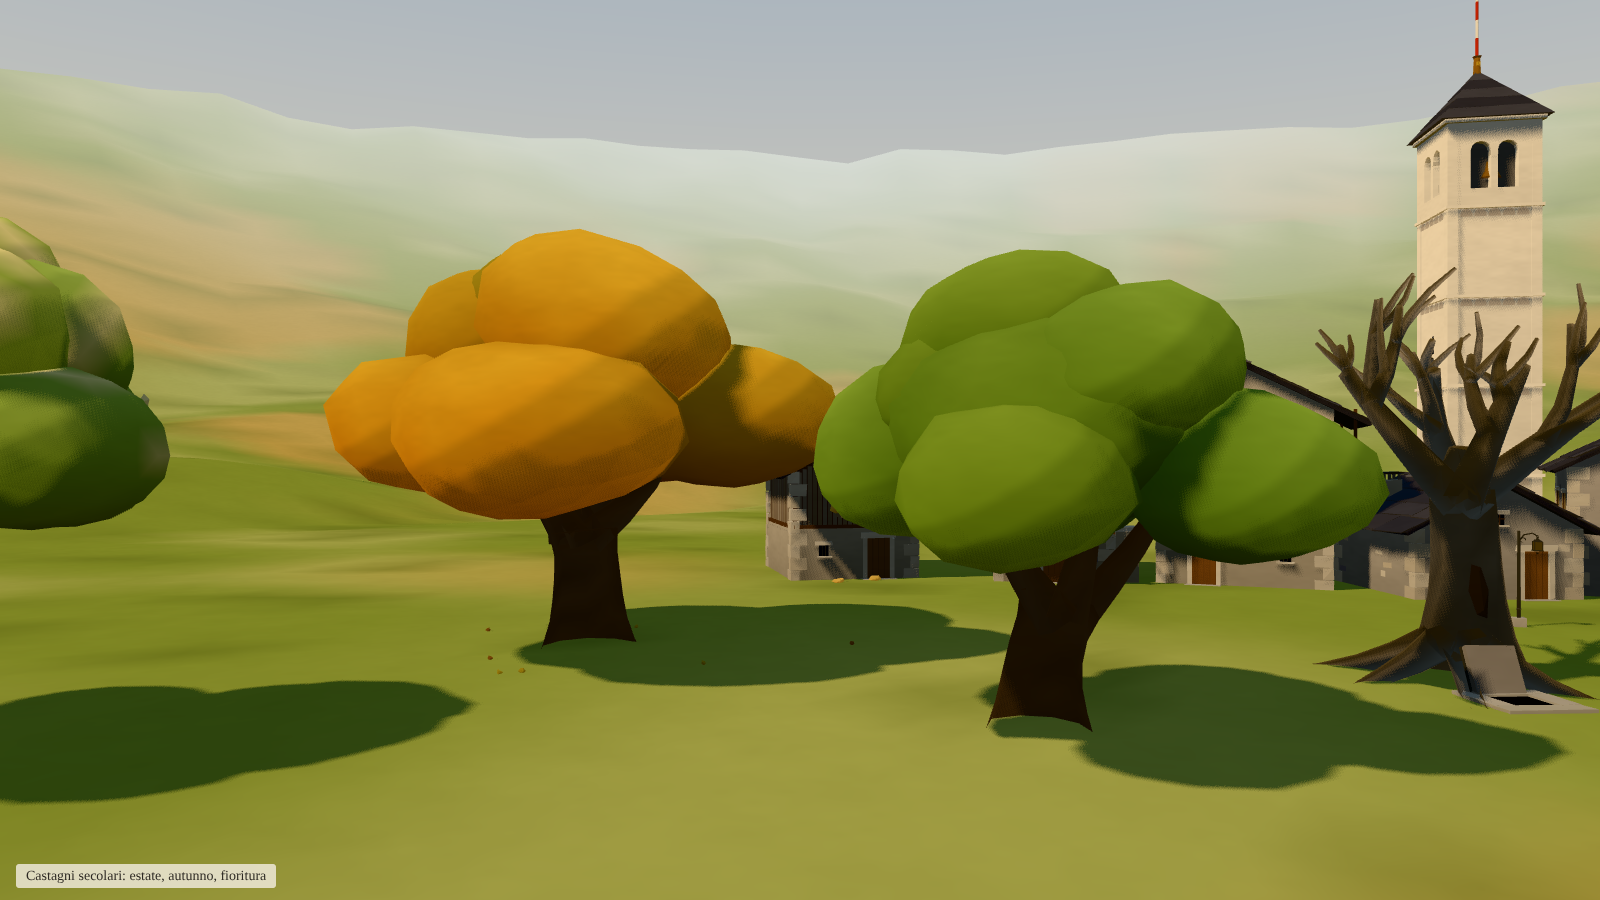
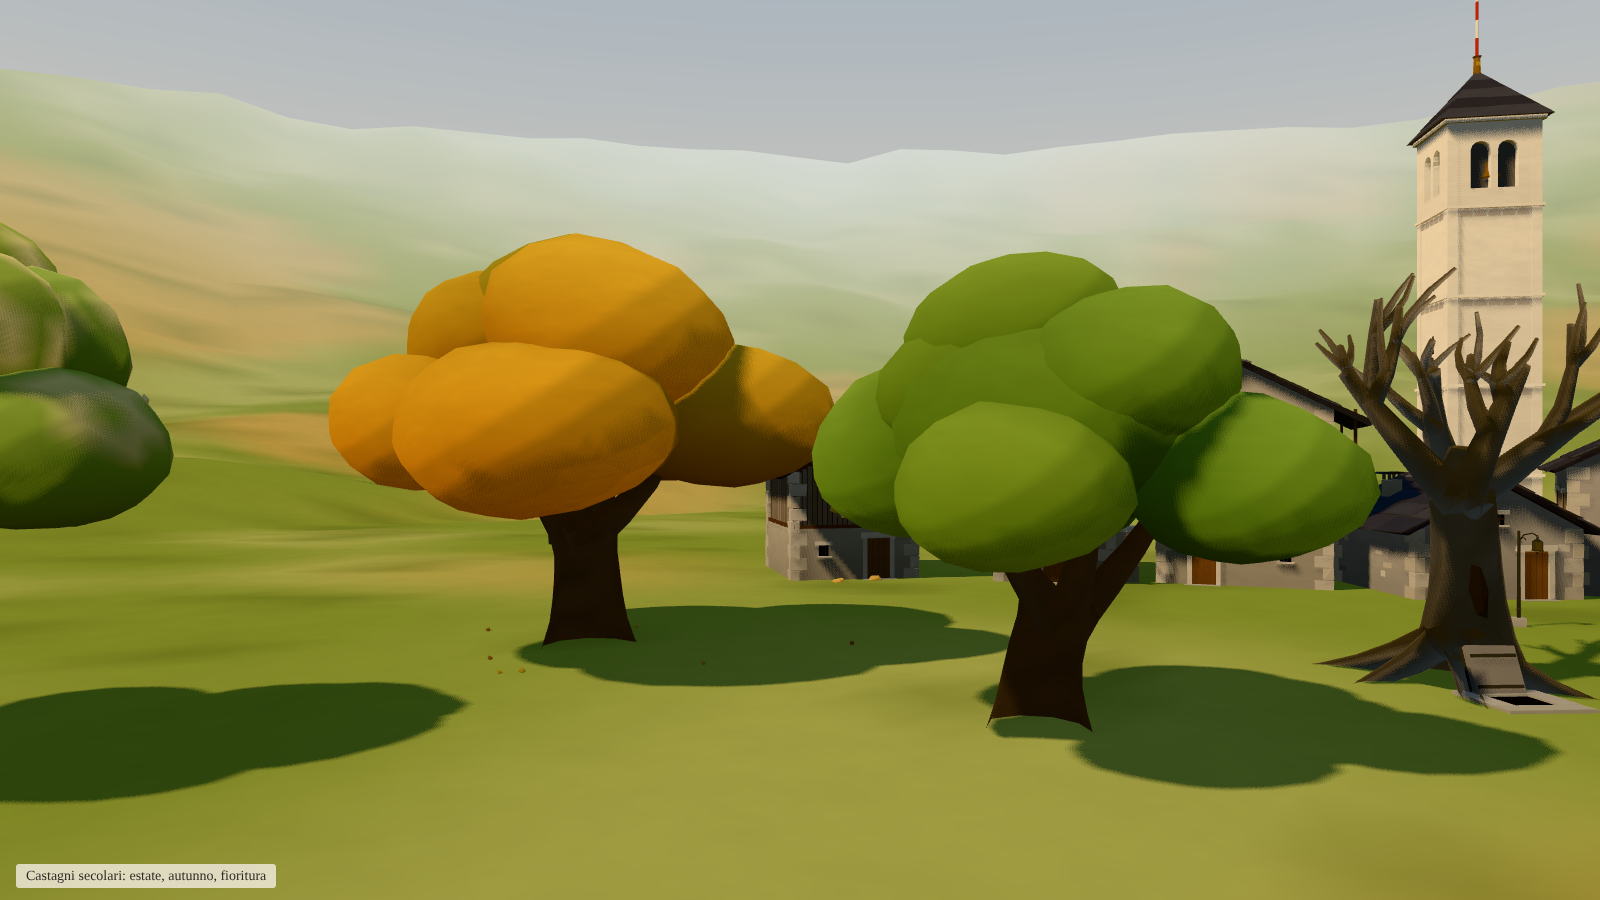
Cielo di Terra: istantanea del lavoro in corso
Claude-Session: https://claude.ai/code/session_016L3mhZfM8m5LnzdjzNNuFY

diff --git a/cielo-di-terra/moduli/oggetti/src/oggetti/castagno.ts b/cielo-di-terra/moduli/oggetti/src/oggetti/castagno.ts
@@ -159,7 +159,7 @@ export function creaCastagno(opz: OpzioniCastagno = {}): OggettoProcedurale {
       const dy = (p.y - cChioma.y) / (ry * 1.2);
       const dz = (p.z - cChioma.z) / rx;
       const esterno = THREE.MathUtils.smoothstep(Math.sqrt(dx * dx + dy * dy + dz * dz), 0.45, 1.05);
-      const t = THREE.MathUtils.clamp(n.y * 0.3 + 0.2 + altezza * 0.35 + esterno * 0.3 + (hashPosizione(p.x, p.y, p.z, seme) - 0.5) * 0.14, 0, 1);
+      const t = THREE.MathUtils.clamp(n.y * 0.3 + 0.2 + altezza * 0.35 + esterno * 0.3 + (hashPosizione(p.x, p.y, p.z, seme) - 0.5) * 0.05, 0, 1);
       if (t < 0.5) out.copy(cScuro).lerp(cMedio, t / 0.5);
       else out.copy(cMedio).lerp(cChiaro, (t - 0.5) / 0.5);
       out.multiplyScalar(0.72 + 0.28 * esterno);
@@ -168,7 +168,8 @@ export function creaCastagno(opz: OpzioniCastagno = {}): OggettoProcedurale {
       out.b *= 1 - tintaMassa;
       if (stagione === 'fioritura' && n.y > -0.1 && hashPosizione(p.x * 1.7, p.y * 1.7, p.z * 1.7, seme + 5) > 0.72) out.lerp(amenti, 0.75);
     };
-    const g = geoMassa(r, seme + i * 31, 0.2, det === 'alto' && r > rx * 0.38 ? 2 : 1, 0.84, 0.65);
+    const dettaglioMassa = det === 'alto' ? (r > rx * 0.42 ? 3 : 2) : 1;
+    const g = geoMassa(r, seme + i * 31, 0.16, dettaglioMassa, 0.84, 0.7);
     b.aggiungi(g, { matrice: mat(c, [0, rng.next() * 6, 0]), colore: fn });
   }
 
@@ -413,6 +414,9 @@ export function creaBotolaCripta(opz: OpzioniBotola = {}): OggettoProcedurale<St
     [0, lc / 2, lc, 0.08],
   ] as const) {
     bc.aggiungi(geoBoxC(w, 0.04, d), { matrice: mat([x, 0.17, z]), colore: PALETTE.ferro, gradiente: { basso: 1, alto: 1, y0: 0, y1: 1 }, piatto: true });
+  }
+  for (const z of [0.25, lc - 0.25]) {
+    bc.aggiungi(geoBoxC(lc - 0.1, 0.03, 0.08), { matrice: mat([0, -0.012, z]), colore: PALETTE.ferro, piatto: true });
   }
   for (let i = 0; i < 6; i++) {
     for (const z of [0.04, lc - 0.04]) {

diff --git a/cielo-di-terra/moduli/oggetti/src/oggetti/fade.ts b/cielo-di-terra/moduli/oggetti/src/oggetti/fade.ts
@@ -601,7 +601,7 @@ export function creaSciameApi(opz: OpzioniSciameApi = {}): OggettoProcedurale<St
   const matS = new THREE.PointsMaterial({
     map: materiali().alone.map,
     vertexColors: true,
-    size: d * 4,
+    size: d * 2.6,
     sizeAttenuation: true,
     transparent: true,
     depthWrite: false,
@@ -664,9 +664,9 @@ export function creaSciameApi(opz: OpzioniSciameApi = {}): OggettoProcedurale<St
       posS[i * 3 + 1] = p.y;
       posS[i * 3 + 2] = p.z;
       const luccica = Math.max(0, Math.sin(t * 3.1 + a.ph * 7)) ** 6;
-      colS[i * 3] = rame.r * (0.25 + luccica);
-      colS[i * 3 + 1] = rame.g * (0.25 + luccica);
-      colS[i * 3 + 2] = rame.b * (0.25 + luccica);
+      colS[i * 3] = rame.r * (0.12 + luccica);
+      colS[i * 3 + 1] = rame.g * (0.12 + luccica);
+      colS[i * 3 + 2] = rame.b * (0.12 + luccica);
     }
     mCorpi.instanceMatrix.needsUpdate = true;
     mAli.instanceMatrix.needsUpdate = true;

diff --git a/cielo-di-terra/docs/design/GDD.md b/cielo-di-terra/docs/design/GDD.md
@@ -154,7 +154,7 @@ Le tre valli condividono i due Tappi. Il Tappo Sud (z 0-620) sale a conca in tre
 |---|---|---|
 | Piazza delle Ore | (1046, 37,0, 38,5) | selciato a meridiana (36 m), Bacheca delle Ore, telo dell'Ombrista |
 | San Vigilio e Pilastro 1 | campanile (1062, 37,2, 38,5); cella e pilastro h 62,5; palina fino a h 70,5 | landmark di tutto il cielo |
-| Cripta dei Giardinieri | botola (1112, 27,0, 48) sotto il castagno morto; sale delle capsule a h −4 | inizio del gioco |
+| Cripta dei Giardinieri | botola (1112, 27,0, 42) sotto il castagno morto; sala delle capsule a h −4,5 | inizio del gioco |
 | Terrazza Pedrazzini | (948, 23,0, 56) | il castagno del cartellino di zinco, primo innesto, chiodo 3 |
 | Mulino sul riale | (1130, 51,0, 7,5) | ruota, chiodo 7 |
 | Fienile di Ottavio | (1176, 58,5, 11,7) | rifugio, chiodo 8 sul Sass dal Messo |
@@ -162,14 +162,14 @@ Le tre valli condividono i due Tappi. Il Tappo Sud (z 0-620) sale a conca in tre
 | Sass Grand e Pilastro 6 | (1190, 74,0, 42) | belvedere sulla Finestra dei Ponti |
 | Grà di Pian | (890, 17,5, 34) | essiccatoio con fumo, chiodo 37 |
 | Pian dei Ricci e Pilastro 4 | (800, 9,0, 90) | Selve alte |
-| Balcone dei Messi e Pilastro 42 | (110, 30, 452) | 0,3 g: da qui si «cade» nell'altra valle |
+| Balcone dei Messi e Pilastro 42 | (110, 30, 450) | 0,3 g: da qui si «cade» nell'altra valle |
 | Cartiera | (1320, 49, 4) | carta di castagno con la filigrana (secondaria 7) |
 | Bocca delle Fade e Pilastro 44 | (1520, 70, 18) | botola d'ingresso alla Galleria della Carta |
 | Piana di Sant'Anna e Pilastro 40 | (2000, 45, 20) | orti benedetti, frutteti |
 | San Rocco dei Pellegrini | (2645, 44, 9) | partenza della scala dei pellegrini, tolta dalla Carta nel 2265 |
 | Scala Coperta | cancello (2650, 30, 10) | galleria scavata della Confraternita verso l'Eremo |
 
-**Particelle mobili** (elementi con varianti notturne): 9 in tutta la valle, 4 nel nucleo di Corbella (la passerella del Messo, la scorciatoia delle Terrazze, la casa di Nando, il muro di Ronco). **Segnali di cielo**: il campanile bianco con la palina, il fumo delle grà, i lumi della Piazza alla brace.
+**Elementi mobili** (con varianti notturne): 12 in tutta la valle, 4 nel nucleo di Corbella (la passerella del Messo, la scorciatoia delle Terrazze, la casa di Nando, il muro di Ronco). **Segnali di cielo**: il campanile bianco con la palina, il fumo delle grà, i lumi della Piazza alla brace.
 
 #### Z2. Il Verbanetto e il Fondale (Valle 2, θ 120-210)
 
